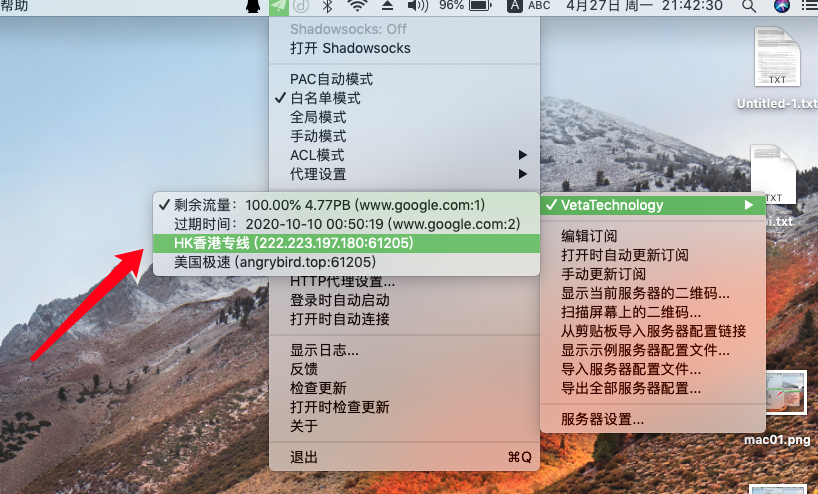
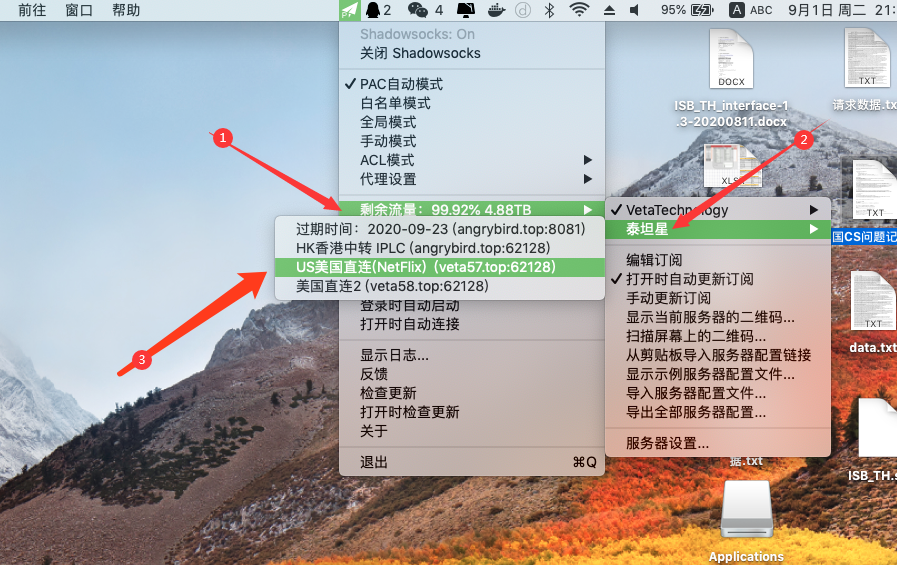
like find0912

diff --git a/src/main/resources/static/instructions.html b/src/main/resources/static/instructions.html
@@ -55,24 +55,7 @@
 	</head>
 
 	<body>
-	<!--<div class="row menu">
-		<div id="go-windows" class="col-xs-3" style="margin-top: 9px;text-align: center;">
 
-			<a style="color: blue;">windows教程</a>
-		</div>
-		<div id="go-andorid" class="col-xs-3" style="margin-top: 9px;text-align: center;">
-
-			<a style="color: blue;">android教程</a>
-		</div>
-		<div id="go-ios" class="col-xs-3" style="margin-top: 9px;text-align: center;">
-
-			<a style="color: blue;">ios教程</a>
-		</div>
-		<div id="go-mac" class="col-xs-3" style="margin-top: 9px;text-align: center;">
-
-			<a style="color: blue;">macOS教程</a>
-		</div>
-	</div>-->
 	<div class="row menu">
 
 		<div id="go-windows" class="col-xs-3" style="margin-top: 1px;padding-left: 8px;text-align: center;">
@@ -98,7 +81,7 @@
 			<div class="col-lg-6" style="margin-left: 10px;margin-right: 10px">
 
 				<div id="windows" style="height: 70px;"></div>
-                <!--windows教程-->
+				<!--windows教程-->
 				<div>
 					<p style="text-align: center;font-size: 50px;">Windows7-10 使用教程</p>
 				</div>
@@ -154,9 +137,9 @@
 				</div>
 				<br />
 				<div>
-					<p style="font-size: 25px;"><span style="color: red;">第七步：</span>小飞机右键选择 服务器-->VetaTechnology-->“美国直连”或者“香港中转”。</p>
+					<p style="font-size: 25px;"><span style="color: red;">第七步：</span>小飞机右键选择 服务器-->泰坦星-->“美国直连”或者“香港中转”，三个节点可供选择。</p>
 					<div>
-						<img style="width: 100%;" src="asserts/img/w5.jpg" />
+						<img style="width: 100%;" src="asserts/img/w5.png" />
 					</div>
 
 				</div>
@@ -218,7 +201,7 @@
 						<img style="width: 50%;" src="asserts/img/a5.jpg" />
 						<br />
 						<br />
-						<p style="font-size: 20px;">3. 将获得的订阅连接复制粘贴到下图所示位置。</p>
+						<p style="font-size: 20px;">3. 将获得的订阅地址复制粘贴到下图所示位置。</p>
 						<img style="width: 50%;" src="asserts/img/a6.jpg" />
 						<br />
 						<br />
@@ -226,7 +209,7 @@
 						<br />
 						<br />
 						<p style="font-size: 20px;">4.完成添加订阅地址</p>
-						<img style="width: 50%;" src="asserts/img/a9.jpg" />
+						<img style="width: 50%;" src="asserts/img/a9.png" />
 						<br />
 						<br />
 						<p style="font-size: 20px;">需要注意的是向右滑动删除时 点击直接删除</p>
@@ -237,8 +220,8 @@
 				</div>
 				<br />
 				<div>
-					<p style="font-size: 25px;"><span style="color: red;">第四步：</span>选择节点并使用<span style="color: red;">(教程偏旧，新弹出的节点名称和教程略微不同)</span></p>
-					<p style="font-size: 25px;"> 1.上述步骤操作无误的话到这里你会看到节点已经自动添加到列表里了<span style="color: red;">(如果没有弹出，请细心再次尝试，因为这一步容易出错)</span></p>
+					<p style="font-size: 25px;"><span style="color: red;">第四步：</span>选择节点并使用</p>
+					<p style="font-size: 25px;"> 1.上述步骤操作无误的话到这里你会看到节点已经自动添加到列表里了，“香港中转”和“美国直连”，有三个节点可供任意选择使用。<span style="color: red;">(如果没有弹出，请细心再次尝试，因为这一步容易出错)</span></p>
 					<div>
 						<img style="width: 50%;" src="asserts/img/a13.jpg" />
 					</div>
@@ -341,7 +324,7 @@
 				<br />
 				<div>
 					<p style="font-size: 25px;"><span style="color: red;">第四步：</span>打开使用</p>
-					<p style="font-size: 25px;"> 如果上述步骤操作正确这里将会自动出现节点 选择美国极速， 打开开关即可使用</p>
+					<p style="font-size: 25px;"> 如果上述步骤操作正确这里将会自动出现三个节点可供选择，选择一个“美国直连”或者“香港中转”，打开开关即可使用</p>
 					<div>
 						<img style="width: 50%;" src="asserts/img/i10.png" />
 						<br />
@@ -430,7 +413,7 @@
 				</div>
 				<br />
 				<div>
-					<p style="font-size: 25px;"><span style="color: red;">第八步：</span>>选择“HK香港专线”或者“美国极速”节点</p>
+					<p style="font-size: 25px;"><span style="color: red;">第八步：</span>>选择“HK香港中转”或者“US美国直连”节点，三个节点可供选择。</p>
 					<div>
 						<img style="width: 100%;"  src="asserts/img/mac02.png" />
 					</div>

diff --git a/src/main/resources/static/android.html b/src/main/resources/static/android.html
@@ -81,7 +81,7 @@
                 <img style="width: 50%;" src="asserts/img/a5.jpg" />
                 <br />
                 <br />
-                <p style="font-size: 20px;">3. 将获得的订阅连接复制粘贴到下图所示位置。</p>
+                <p style="font-size: 20px;">3. 将获得的订阅地址复制粘贴到下图所示位置。</p>
                 <img style="width: 50%;" src="asserts/img/a6.jpg" />
                 <br />
                 <br />
@@ -89,7 +89,7 @@
                 <br />
                 <br />
                 <p style="font-size: 20px;">4.完成添加订阅地址</p>
-                <img style="width: 50%;" src="asserts/img/a9.jpg" />
+                <img style="width: 50%;" src="asserts/img/a9.png" />
                 <br />
                 <br />
                 <p style="font-size: 20px;">需要注意的是向右滑动删除时 点击直接删除</p>
@@ -100,8 +100,8 @@
         </div>
         <br />
         <div>
-            <p style="font-size: 25px;"><span style="color: red;">第四步：</span>选择节点并使用<span style="color: red;">(教程偏旧，新弹出的节点名称和教程略微不同)</span></p>
-            <p style="font-size: 25px;"> 1.上述步骤操作无误的话到这里你会看到节点已经自动添加到列表里了<span style="color: red;">(如果没有弹出，请细心再次尝试，因为这一步容易出错)</span></p>
+            <p style="font-size: 25px;"><span style="color: red;">第四步：</span>选择节点并使用</p>
+            <p style="font-size: 25px;"> 1.上述步骤操作无误的话到这里你会看到节点已经自动添加到列表里了，“香港中转”和“美国直连”，有三个节点可供任意选择使用。<span style="color: red;">(如果没有弹出，请细心再次尝试，因为这一步容易出错)</span></p>
             <div>
                 <img style="width: 50%;" src="asserts/img/a13.jpg" />
             </div>

diff --git a/src/main/resources/static/win.html b/src/main/resources/static/win.html
@@ -92,9 +92,9 @@
         </div>
         <br />
         <div>
-            <p style="font-size: 25px;"><span style="color: red;">第七步：</span>小飞机右键选择 服务器-->VetaTechnology-->“美国直连”或者“香港中转”。</p>
+            <p style="font-size: 25px;"><span style="color: red;">第七步：</span>小飞机右键选择 服务器-->泰坦星-->“美国直连”或者“香港中转”，三个节点可供选择。</p>
             <div>
-                <img style="width: 100%;" src="asserts/img/w5.jpg" />
+                <img style="width: 100%;" src="asserts/img/w5.png" />
             </div>
 
         </div>

diff --git a/src/main/resources/static/ios.html b/src/main/resources/static/ios.html
@@ -113,7 +113,7 @@
         <br />
         <div>
             <p style="font-size: 25px;"><span style="color: red;">第四步：</span>打开使用</p>
-            <p style="font-size: 25px;"> 如果上述步骤操作正确这里将会自动出现节点 选择美国极速， 打开开关即可使用</p>
+            <p style="font-size: 25px;"> 如果上述步骤操作正确这里将会自动出现三个节点可供选择，选择一个“美国直连”或者“香港中转”，打开开关即可使用</p>
             <div>
                 <img style="width: 50%;" src="asserts/img/i10.png" />
                 <br />

diff --git a/src/main/resources/static/mac.html b/src/main/resources/static/mac.html
@@ -106,7 +106,7 @@
         </div>
         <br />
         <div>
-            <p style="font-size: 25px;"><span style="color: red;">第八步：</span>>选择“HK香港专线”或者“美国极速”节点</p>
+            <p style="font-size: 25px;"><span style="color: red;">第八步：</span>>选择“HK香港中转”或者“US美国直连”节点，三个节点可供选择。</p>
             <div>
                 <img style="width: 100%;"  src="asserts/img/mac02.png" />
             </div>

diff --git a/src/main/java/com/pingan/springbootfan01/util/UserRegister.java b/src/main/java/com/pingan/springbootfan01/util/UserRegister.java
@@ -123,7 +123,7 @@ public class UserRegister {
 			token= rs.getString("token");
 			}
 			rs.close();
-			AddDays_Sql="update user SET expire_in =\""+endDate+"\",class_expire=\""+endDate+"\",class=2,transfer_enable=5368709120000000,node_connector=2 where email=\""+email+"\"";
+			AddDays_Sql="update user SET expire_in =\""+endDate+"\",class_expire=\""+endDate+"\",class=2,transfer_enable=322122547200,node_connector=2 where email=\""+email+"\"";
 			System.out.println(AddDays_Sql);
 			statement = conn.prepareStatement(AddDays_Sql);
 			statement.executeUpdate();
